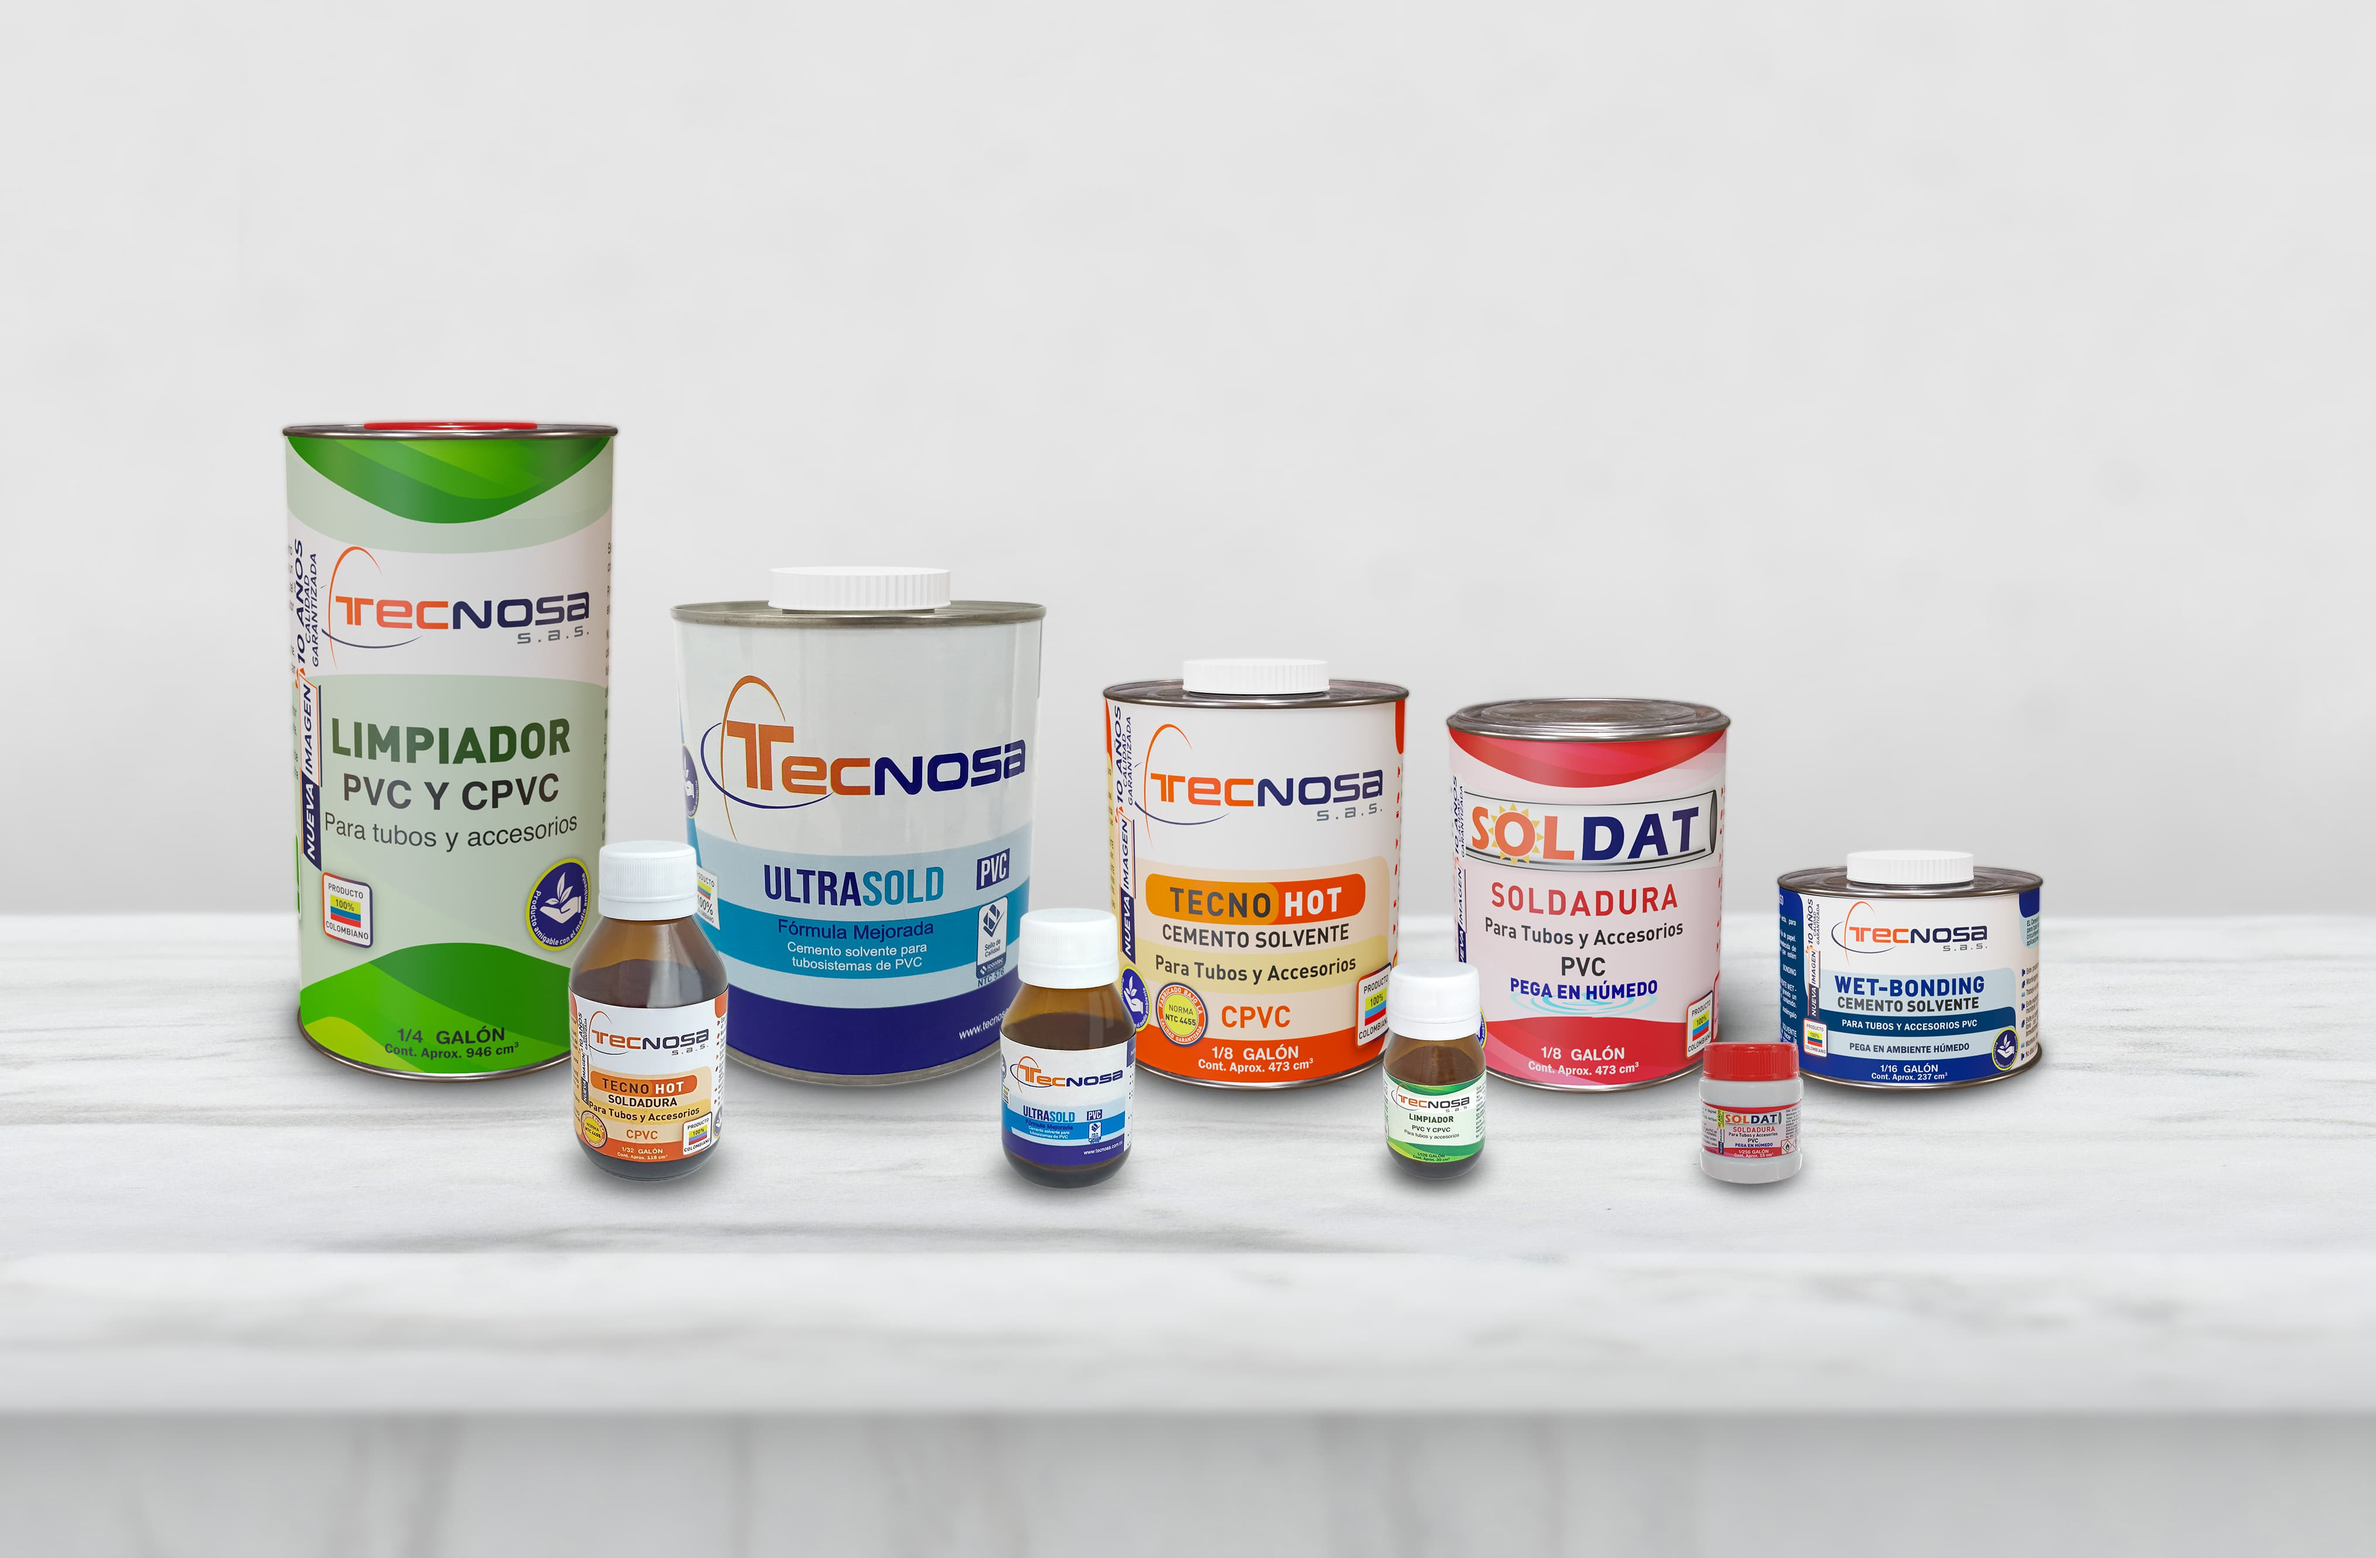
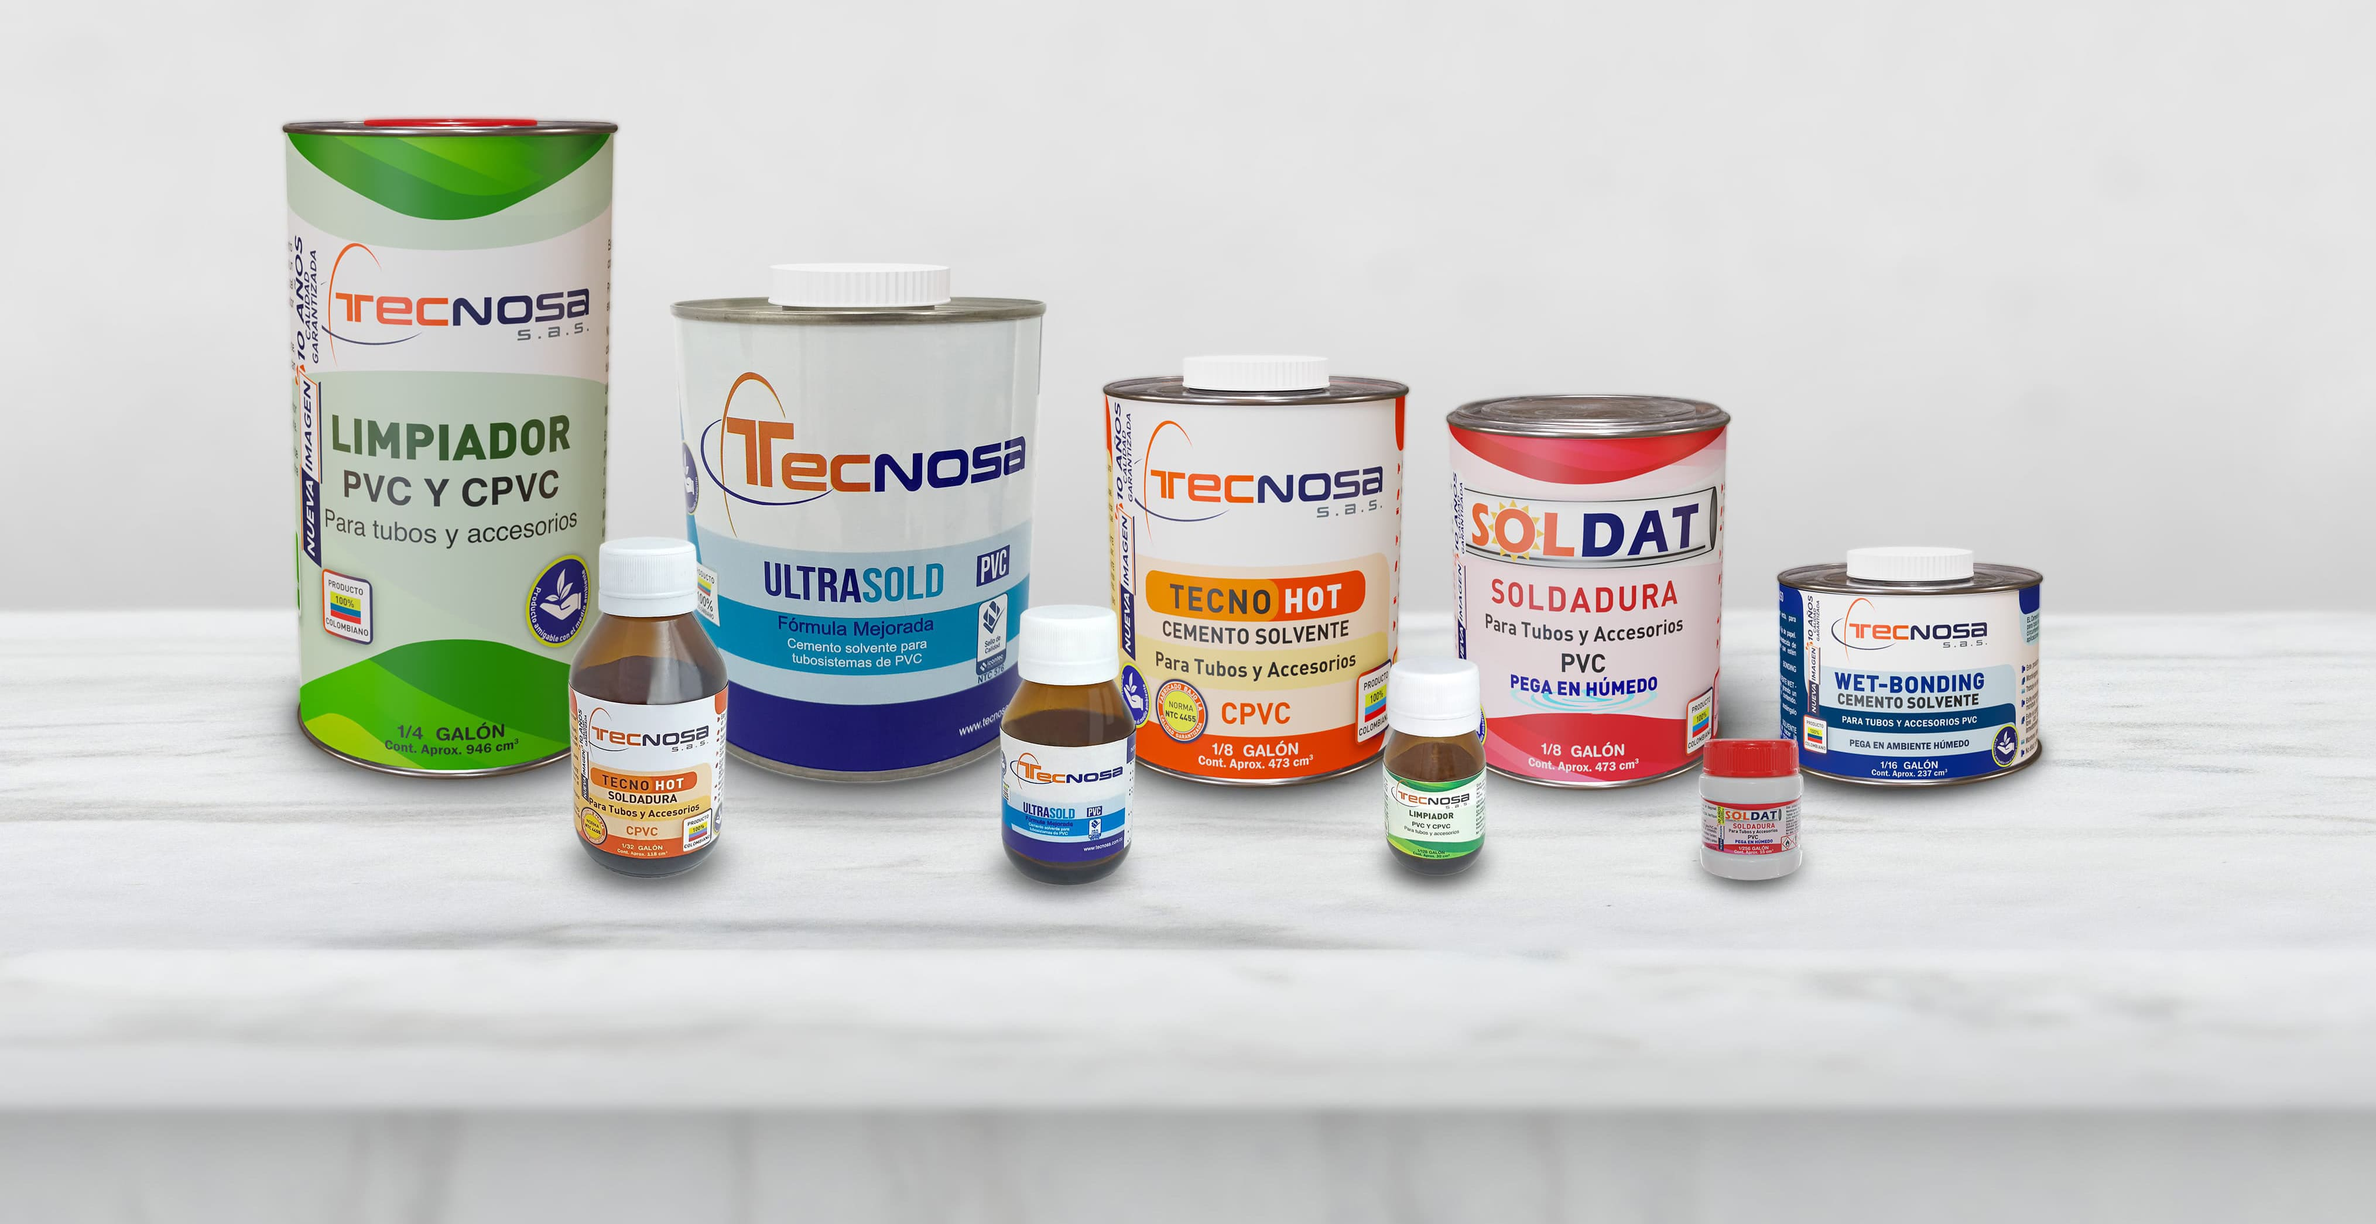
SE ACTUALIZAN IMAGENES DE SOLDADURA

Changed region(s): [[0.0, 0.0933, 1.0, 0.8393], [0.0, 0.6528, 0.0621, 0.6839]]

diff --git a/soldadura.html b/soldadura.html
@@ -160,7 +160,7 @@
         <section id="nuestrasoldadura" class="nuestrasoldadura section-bg">
             <div class="container">
                 <div class="section-title">
-                    <h2>Nuestros Soldadura</h2>
+                    <h2>Soldaduras y limpiador TECNOSA</h2>
                     <p>Fabricamos materiales de construcción con gran resistencia a condiciones externas e internas.
                         Encuentra productos con sello de calidad y reglamento técnico ICONTEC.</p>
                 </div>
@@ -168,7 +168,7 @@
                     <div class="col-lg-4 col-md-6 d-flex align-items-stretch" data-aos="fade-up">
                         <div class="member">
                             <div class="member-img">
-                                <a href="https://es-la.facebook.com"> <img src="img/nuestrasoldadura/ultrasold.png"
+                                <a href="https://es-la.facebook.com"> <img src="img/nuestrasoldadura/ultrasoldx6.jpg"
                                         class="img-fluid" alt="tuberia"></a>
                                 <div class="social">
                                     <a href="https://api.whatsapp.com/send?phone=+57 323 2303703&text=Hola estoy interesad@ en la Tubería que fabrica Tecnosa.">
@@ -186,7 +186,7 @@
                     <div class="col-lg-4 col-md-6 d-flex align-items-stretch"  data-aos="fade-up">
                         <div class="member">
                             <div class="member-img">
-                                <a href="https://www.google.com/"> <img src="img/nuestrasoldadura/wetbonding.png"
+                                <a href="https://www.google.com/"> <img src="img/nuestrasoldadura/wetbondingx6.jpg"
                                         class="img-fluid" alt="cemento solvente"></a>
                                 <div class="social">
                                     <a href="https://api.whatsapp.com/send?phone=+57 323 2303703&text=Hola estoy interesad@ en la Soldadura que fabrica Tecnosa."><p>Cotiza Aquí</p>
@@ -202,7 +202,7 @@
                     <div class="col-lg-4 col-md-6 d-flex align-items-stretch" data-aos="fade-up">
                         <div class="member">
                             <div class="member-img">
-                                <a href="https://www.onlineimagetool.com/es/"> <img src="img/nuestrasoldadura/tecnohot.jpg" class="img-fluid"
+                                <a href="https://www.onlineimagetool.com/es/"> <img src="img/nuestrasoldadura/Tecnohotx6.jpg" class="img-fluid"
                                         alt="accesorios"></a>
                                 <div class="social">
                                     <a href="https://api.whatsapp.com/send?phone=+57 323 2303703&text=Hola estoy interesad@ en los Accesorios que distribuye Tecnosa.">
@@ -219,7 +219,7 @@
                     </div>
                     <div class="col-lg-4 col-md-6 d-flex align-items-stretch" data-aos="fade-up">
                         <div class="member">
-                            <div class="member-img"><a href="  https://www.y2mate.com/es400"> <img src="img/nuestrasoldadura/limpiador.jpg" class="img-fluid"
+                            <div class="member-img"><a href="  https://www.y2mate.com/es400"> <img src="img/nuestrasoldadura/Limpiadorx6.jpg" class="img-fluid"
                                         alt="cables y alambres"></a>
                                 <div class="social">
                                     <a href="https://api.whatsapp.com/send?phone=+57 323 2303703&text=Hola estoy interesad@ en los Productos Eléctricos que distribuye Tecnosa.">
@@ -236,7 +236,7 @@
                     </div>
                     <div class="col-lg-4 col-md-6 d-flex align-items-stretch" data-aos="fade-up">
                         <div class="member">
-                            <div class="member-img"><a href="  https://www.y2mate.com/es400"> <img src="img/nuestrasoldadura/soldat.jpg" class="img-fluid"
+                            <div class="member-img"><a href="  https://www.y2mate.com/es400"> <img src="img/nuestrasoldadura/Soldatx7.jpg" class="img-fluid"
                                         alt="cables y alambres"></a>
                                 <div class="social">
                                     <a href="https://api.whatsapp.com/send?phone=+57 323 2303703&text=Hola estoy interesad@ en los Productos Eléctricos que distribuye Tecnosa.">
@@ -253,7 +253,7 @@
                     </div>
                     <div class="col-lg-4 col-md-6 d-flex align-items-stretch" data-aos="fade-up">
                         <div class="member">
-                            <div class="member-img"><a href="  https://www.y2mate.com/es400"> <img src="img/nuestrasoldadura/masillas.jpg" class="img-fluid"
+                            <div class="member-img"><a href="  https://www.y2mate.com/es400"> <img src="img/nuestrasoldadura/Masillasx4.jpg" class="img-fluid"
                                         alt="cables y alambres"></a>
                                 <div class="social">
                                     <a href="https://api.whatsapp.com/send?phone=+57 323 2303703&text=Hola estoy interesad@ en los Productos Eléctricos que distribuye Tecnosa.">
